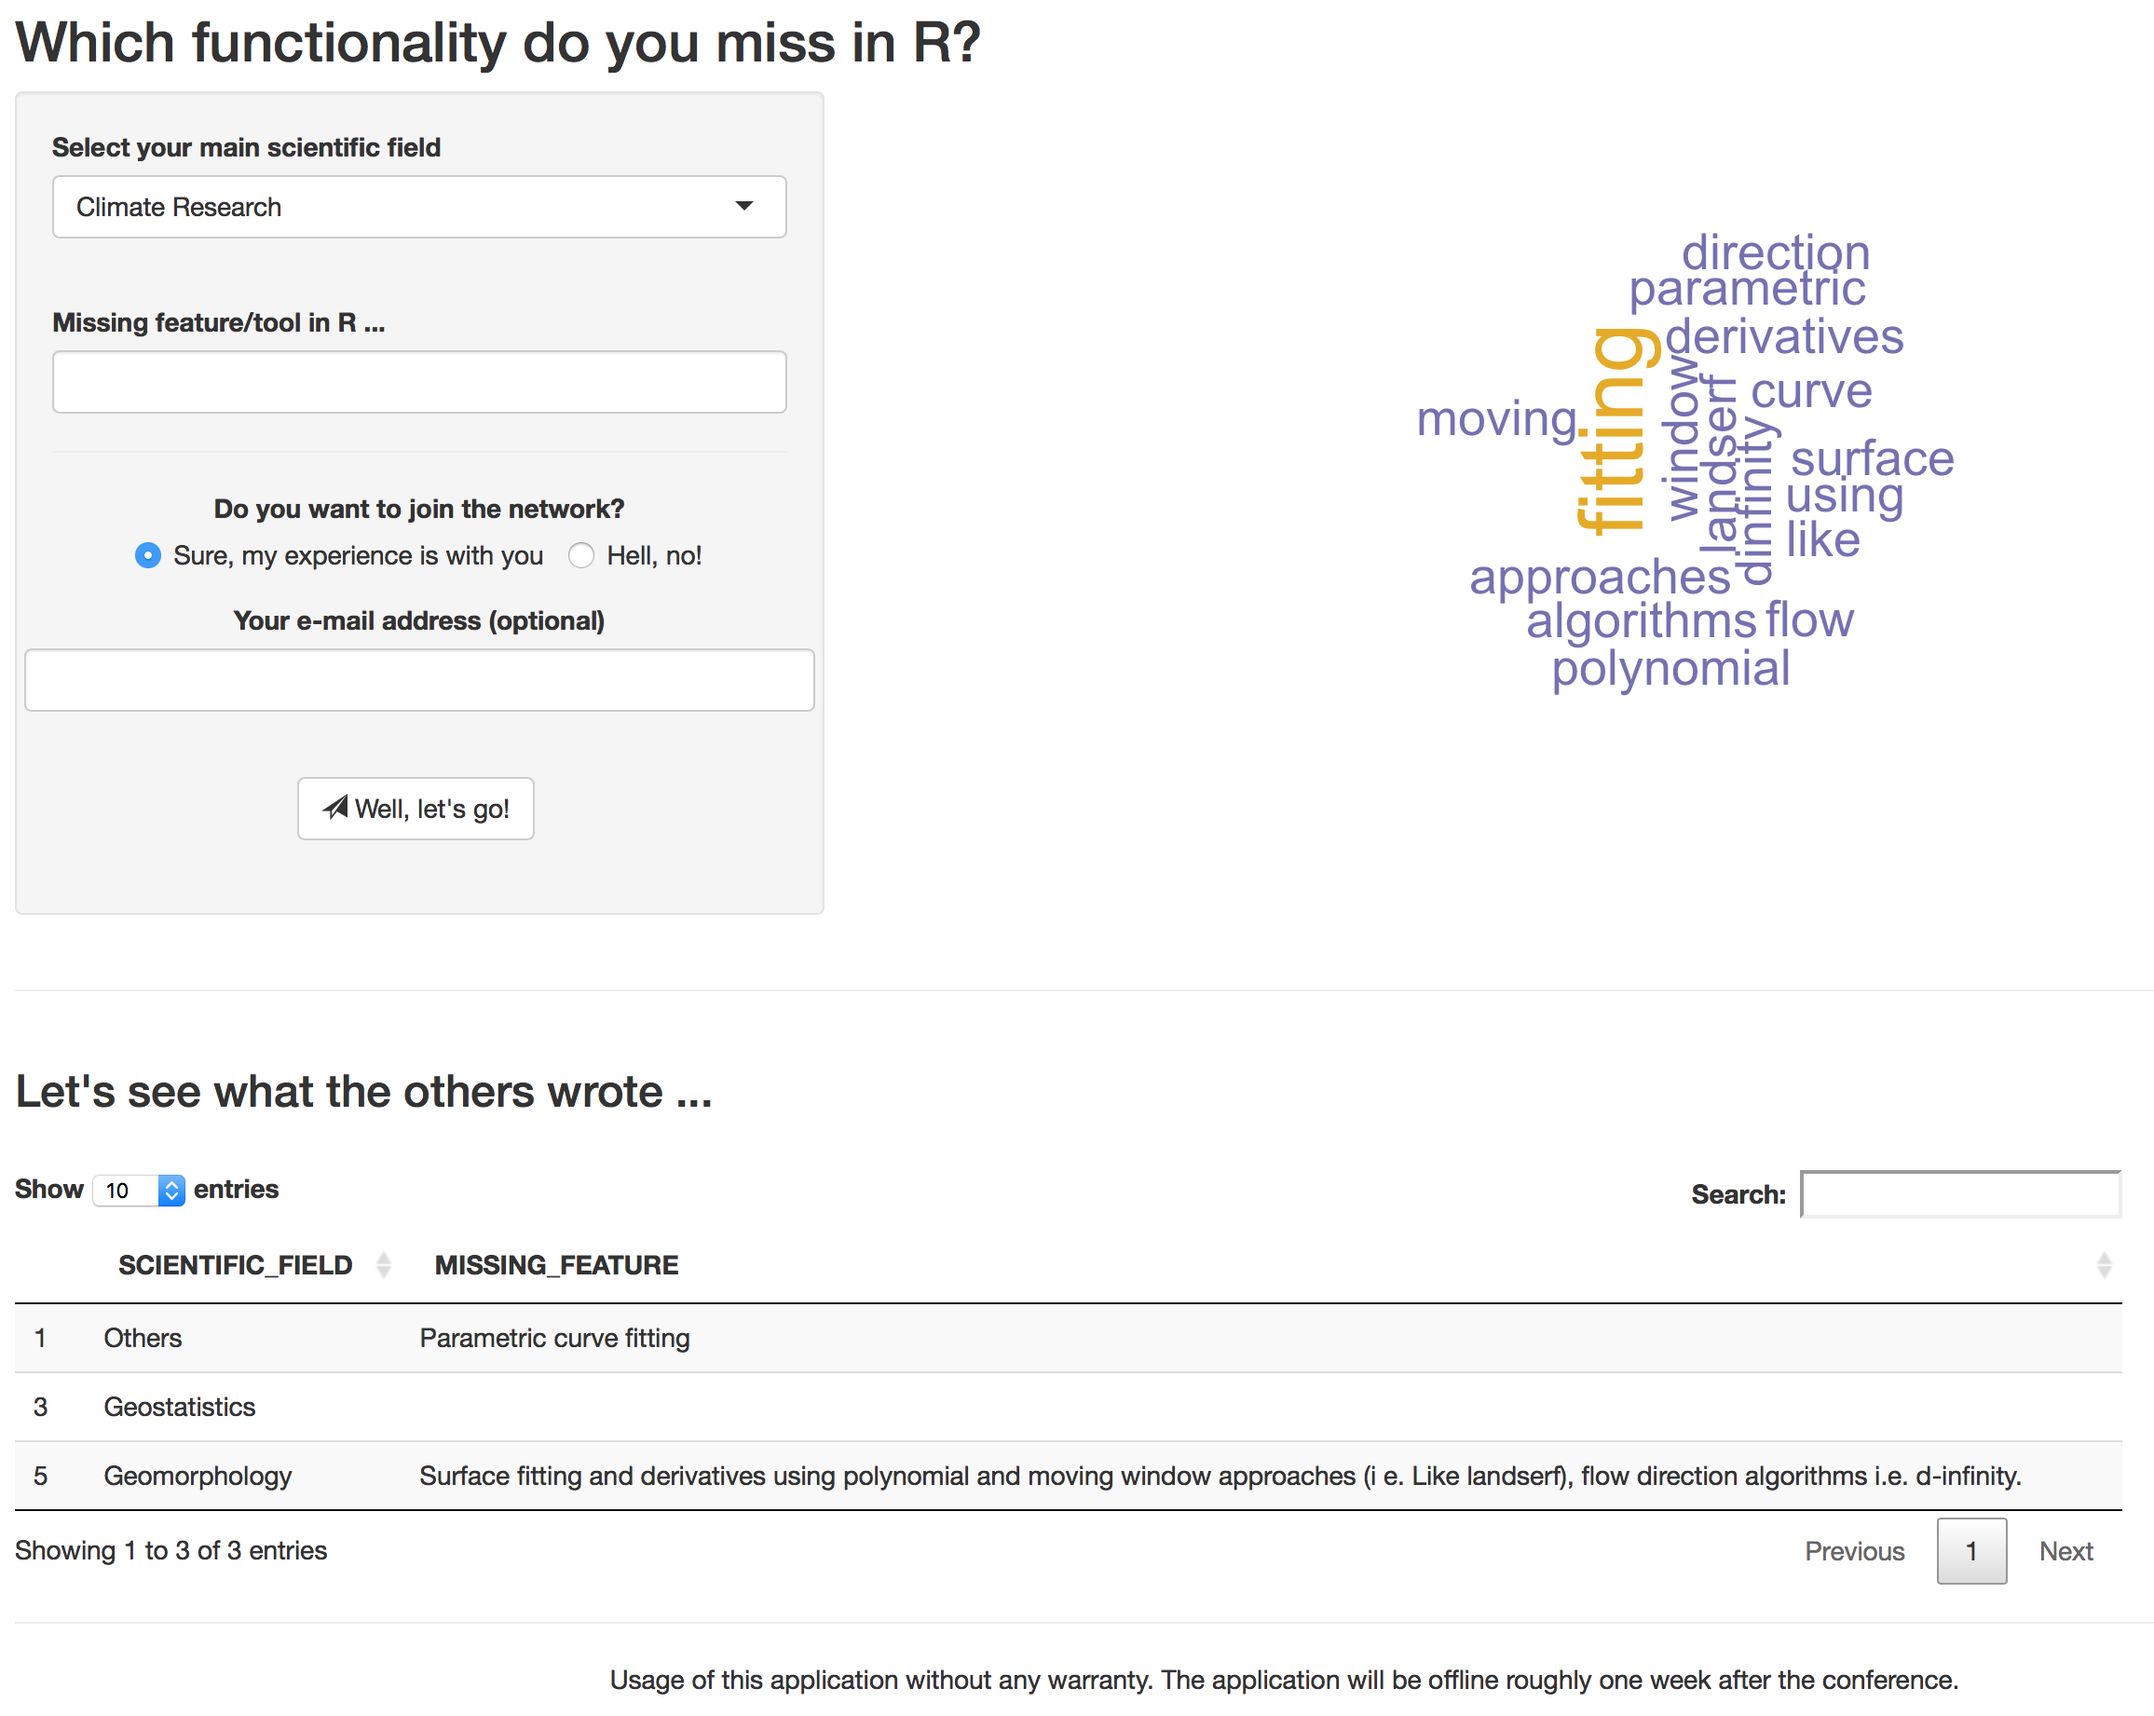
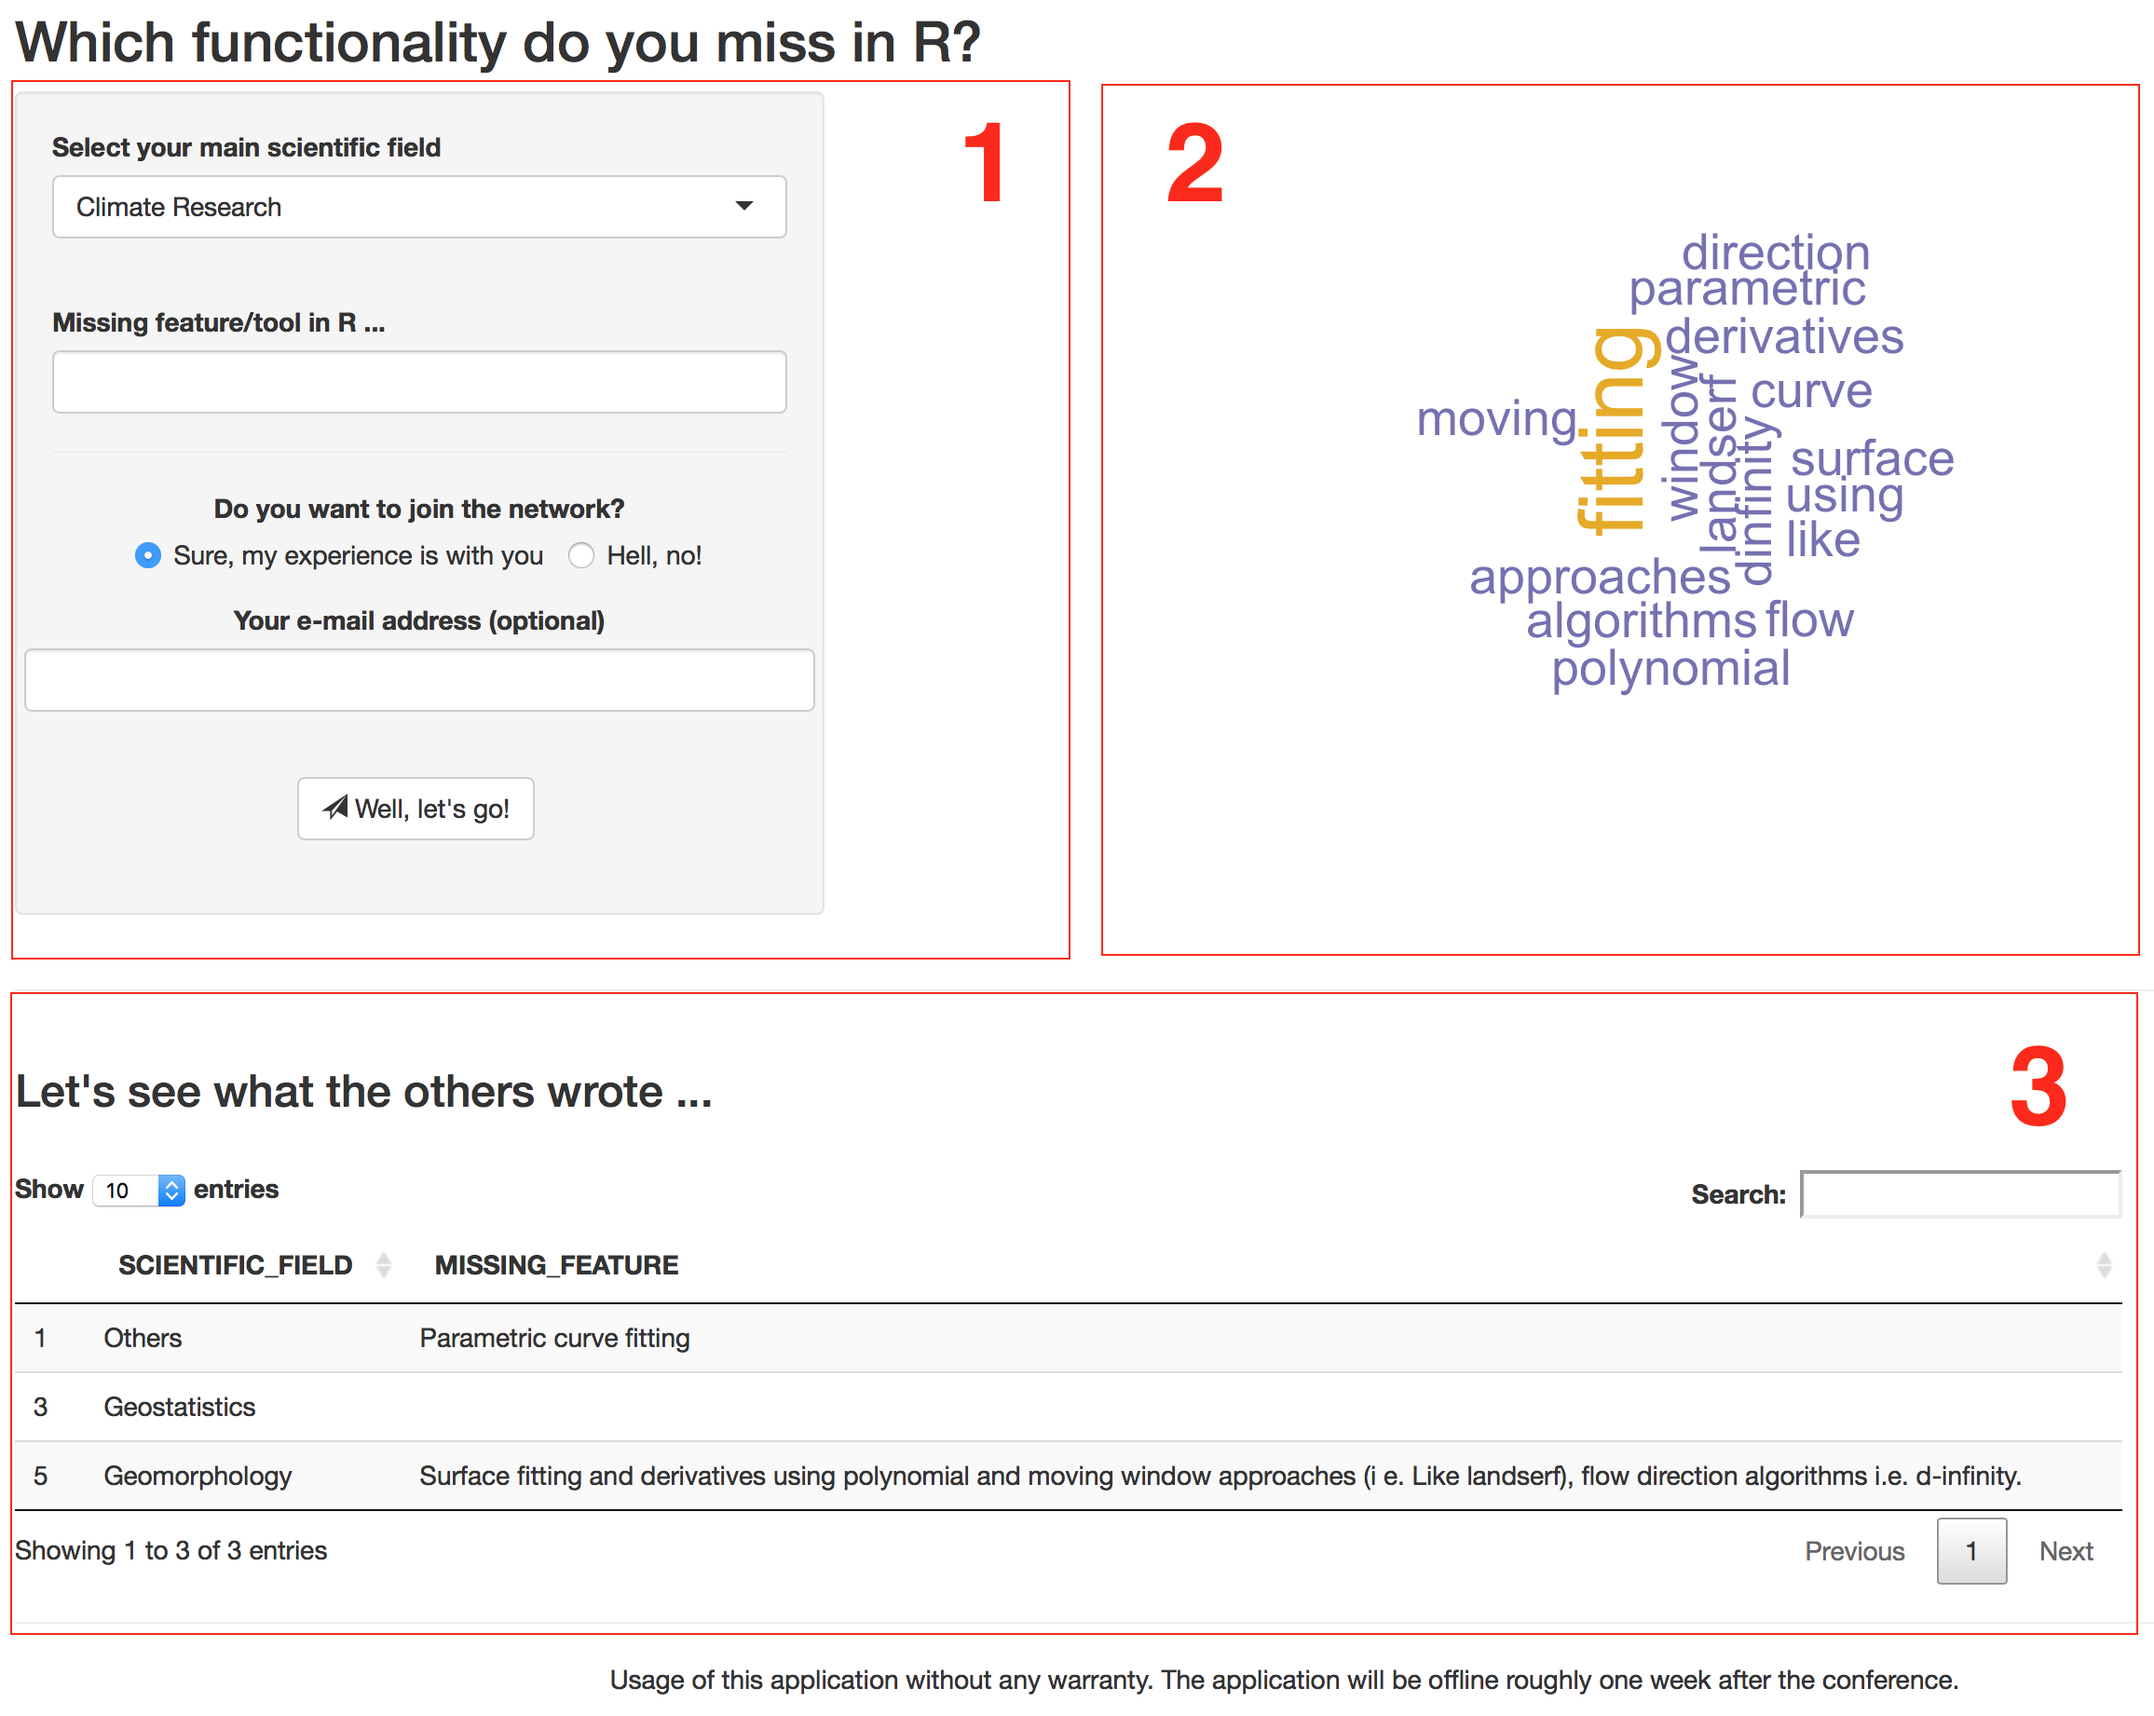
Update README and screenshot

Changed region(s): [[0.9343, 0.5879, 0.9654, 0.6808], [0.5294, 0.0619, 0.5917, 0.1238], [0.436, 0.0619, 0.4671, 0.1238]]

diff --git a/README.md b/README.md
@@ -1,22 +1,28 @@
 # ShinyPollApp
 
-This [Shiny](https://shiny.rstudio.com) application was developed to conduct a brief poll on missing 
-features in [R](https://www.r-project.org) with regard do geosciences during a [PICO session](http://meetingorganizer.copernicus.org/EGU2017/session/24971) organised 
-by Michael Dietze, Sebastian Kreutzer and Oliver Korup at the [EGU 2017](http://www.egu2017.eu) 
-in Vienna (Austria). 
+This [Shiny](https://shiny.rstudio.com) application was developed to conduct a brief poll on missing features in [R](https://www.r-project.org) with regard do geosciences during a [PICO session](http://meetingorganizer.copernicus.org/EGU2017/session/24971).
 
-The application uses an external [MongoDB](https://en.wikipedia.org/wiki/MongoDB) to
-store the results. 
+PICO session convener: Michael Dietze, Sebastian Kreutzer and Oliver Korup at the [EGU 2017](http://www.egu2017.eu) in Vienna (Austria). 
+
+The application consists of three frames:
+
+1. An input frame 
+2. A result visualisation frame, here a word clouds showing the primary poll results
+3. A table frame showing the raw results in more detail
 
 ![](img/screenshot.png)
+
+The application uses an external [MongoDB] https://en.wikipedia.org/wiki/MongoDB) to
+store the results. 
 
 # How to run?
 
 The application can be either run on a local device or an external 
 [Shiny Server](https://www.rstudio.com/products/shiny/shiny-server/).
 
-**Please note that you need an external database access to 
-store and read data!**
+**Please note that you need an external, separate, database access to 
+store and read the poll data! Database information need be stored in 
+a (YAML)[https://en.wikipedia.org/wiki/YAML] file name `db_access.yml` **
 
 # Licence
 
